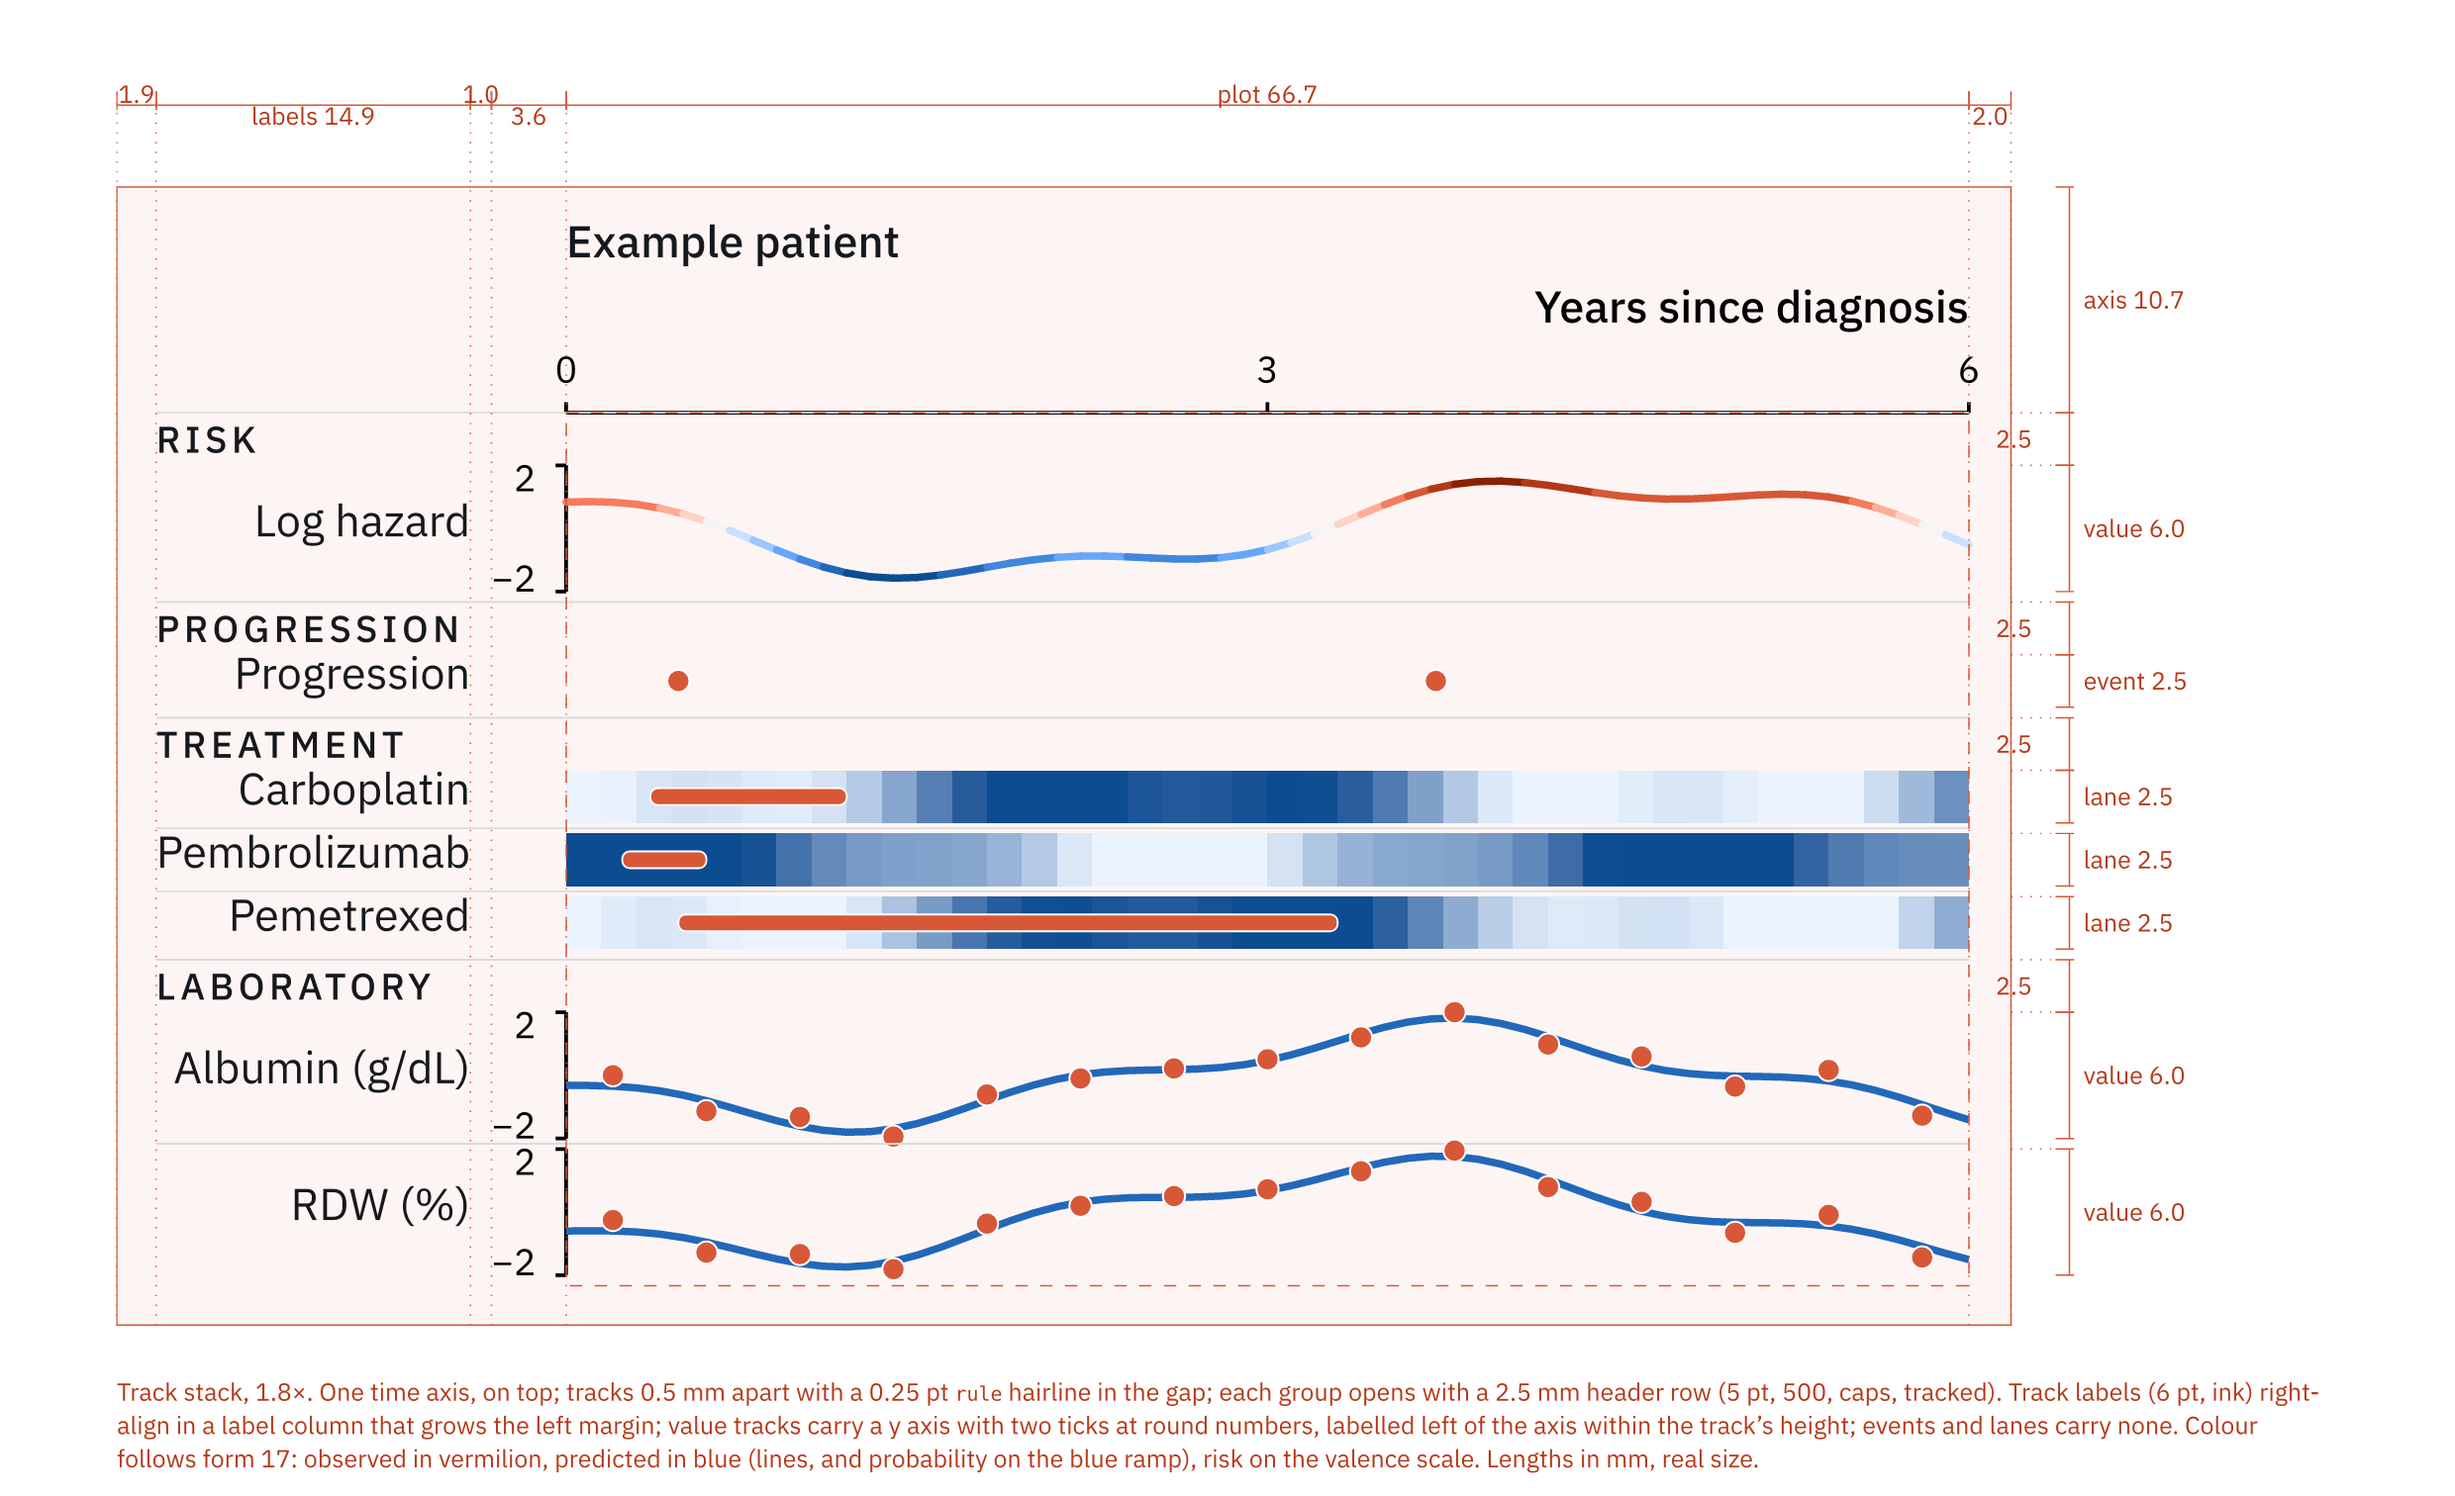
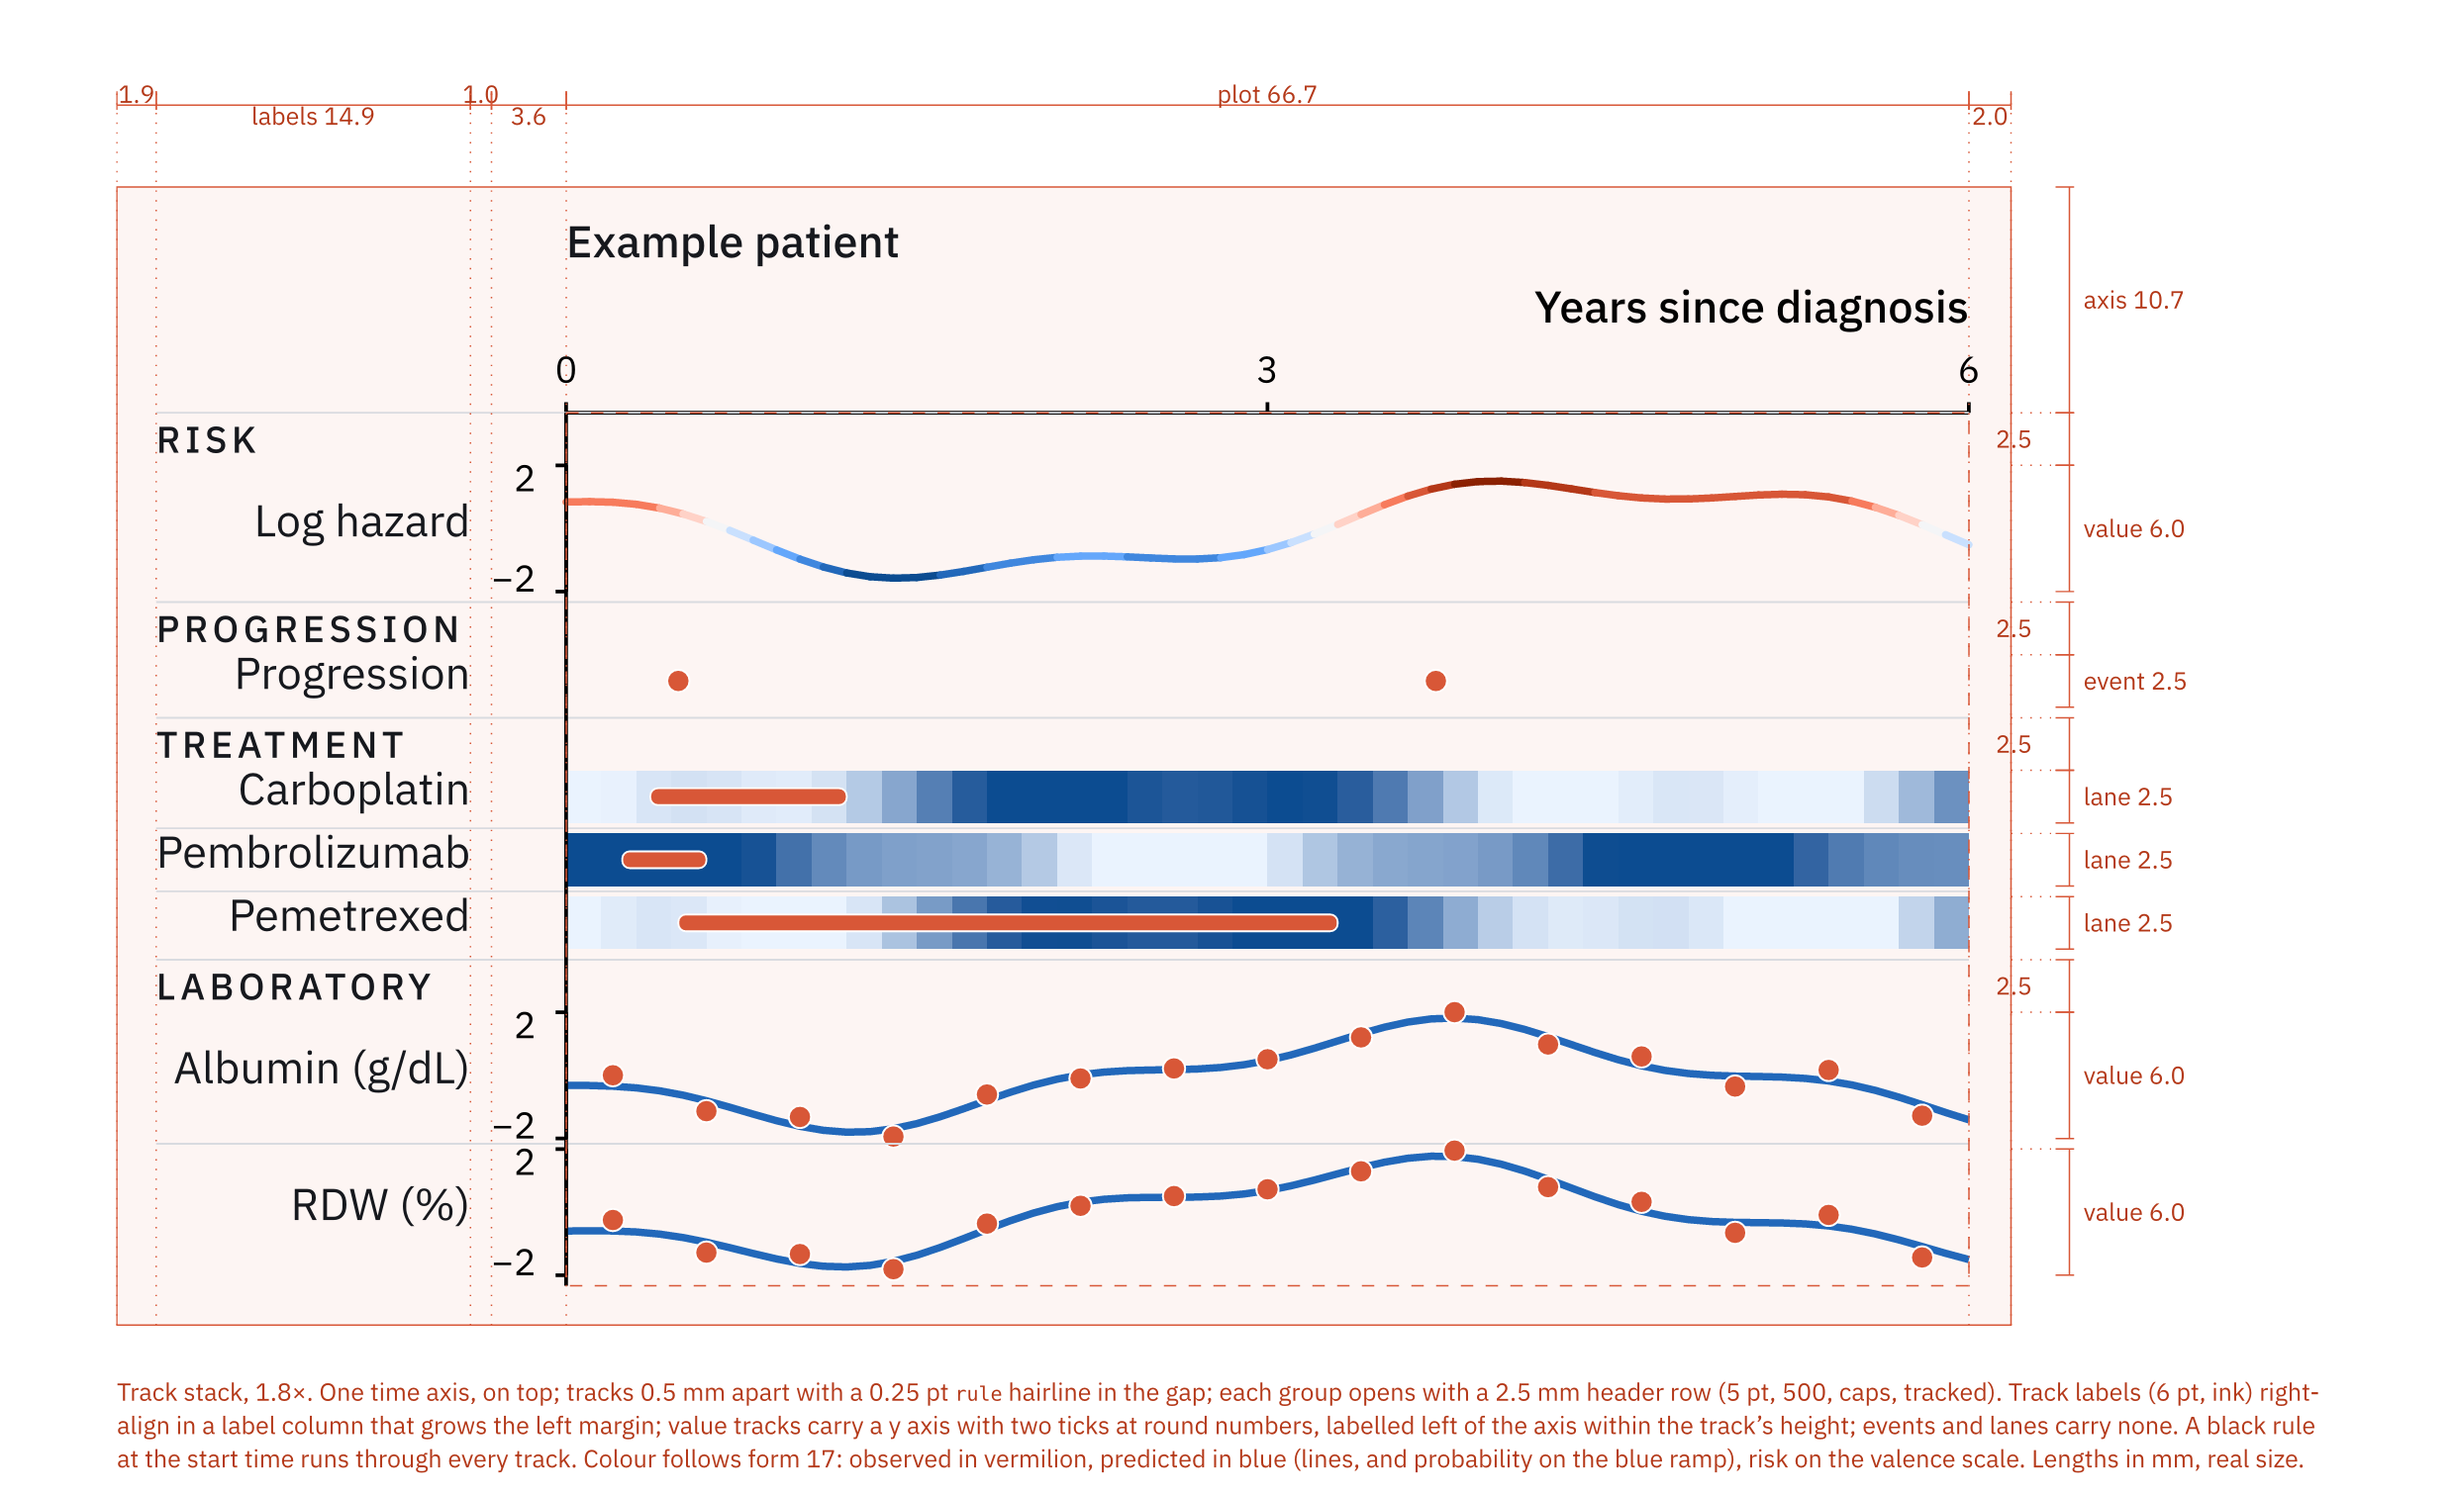
Add a start-time rule to the track stack and form 17

Changed region(s): [[0.0621, 0.9325, 0.9315, 0.9947]]

diff --git a/formats/publication/README.md b/formats/publication/README.md
@@ -204,6 +204,8 @@ PNG. The constants are in `spec-lib.typ`.
   its bottom edge, so neighbouring tracks never collide and no label touches the
   data. Events and lanes carry no axis.
 - Hairlines run from the label column to the plot's right edge; no track has a box.
+- A black 0.5 pt rule marks the start time: it runs down from the time axis through
+  every track, over lanes and under marks, and the value tracks' y axes sit on it.
 - When the tracks do not fit the cell, drop tracks (keep the top-ranked lanes and
   say so in the legend) before shrinking type or track heights.
 

diff --git a/core/charts.md b/core/charts.md
@@ -315,6 +315,7 @@ in `specimen-multitrack-timeline.typ`.
 
 - One time axis on top. Tracks stack below in groups (risk, events, treatment, sites,
   labs), each group opened by a header in the `group` role.
+- A black rule at the start time runs from the axis through every track.
 - Observed data are vermilion 500 with a paper ring: event dots, interval bars
   (round-capped), and lab measurements.
 - Predicted data are blue: lines in blue 600, probabilities as a heat strip on the
